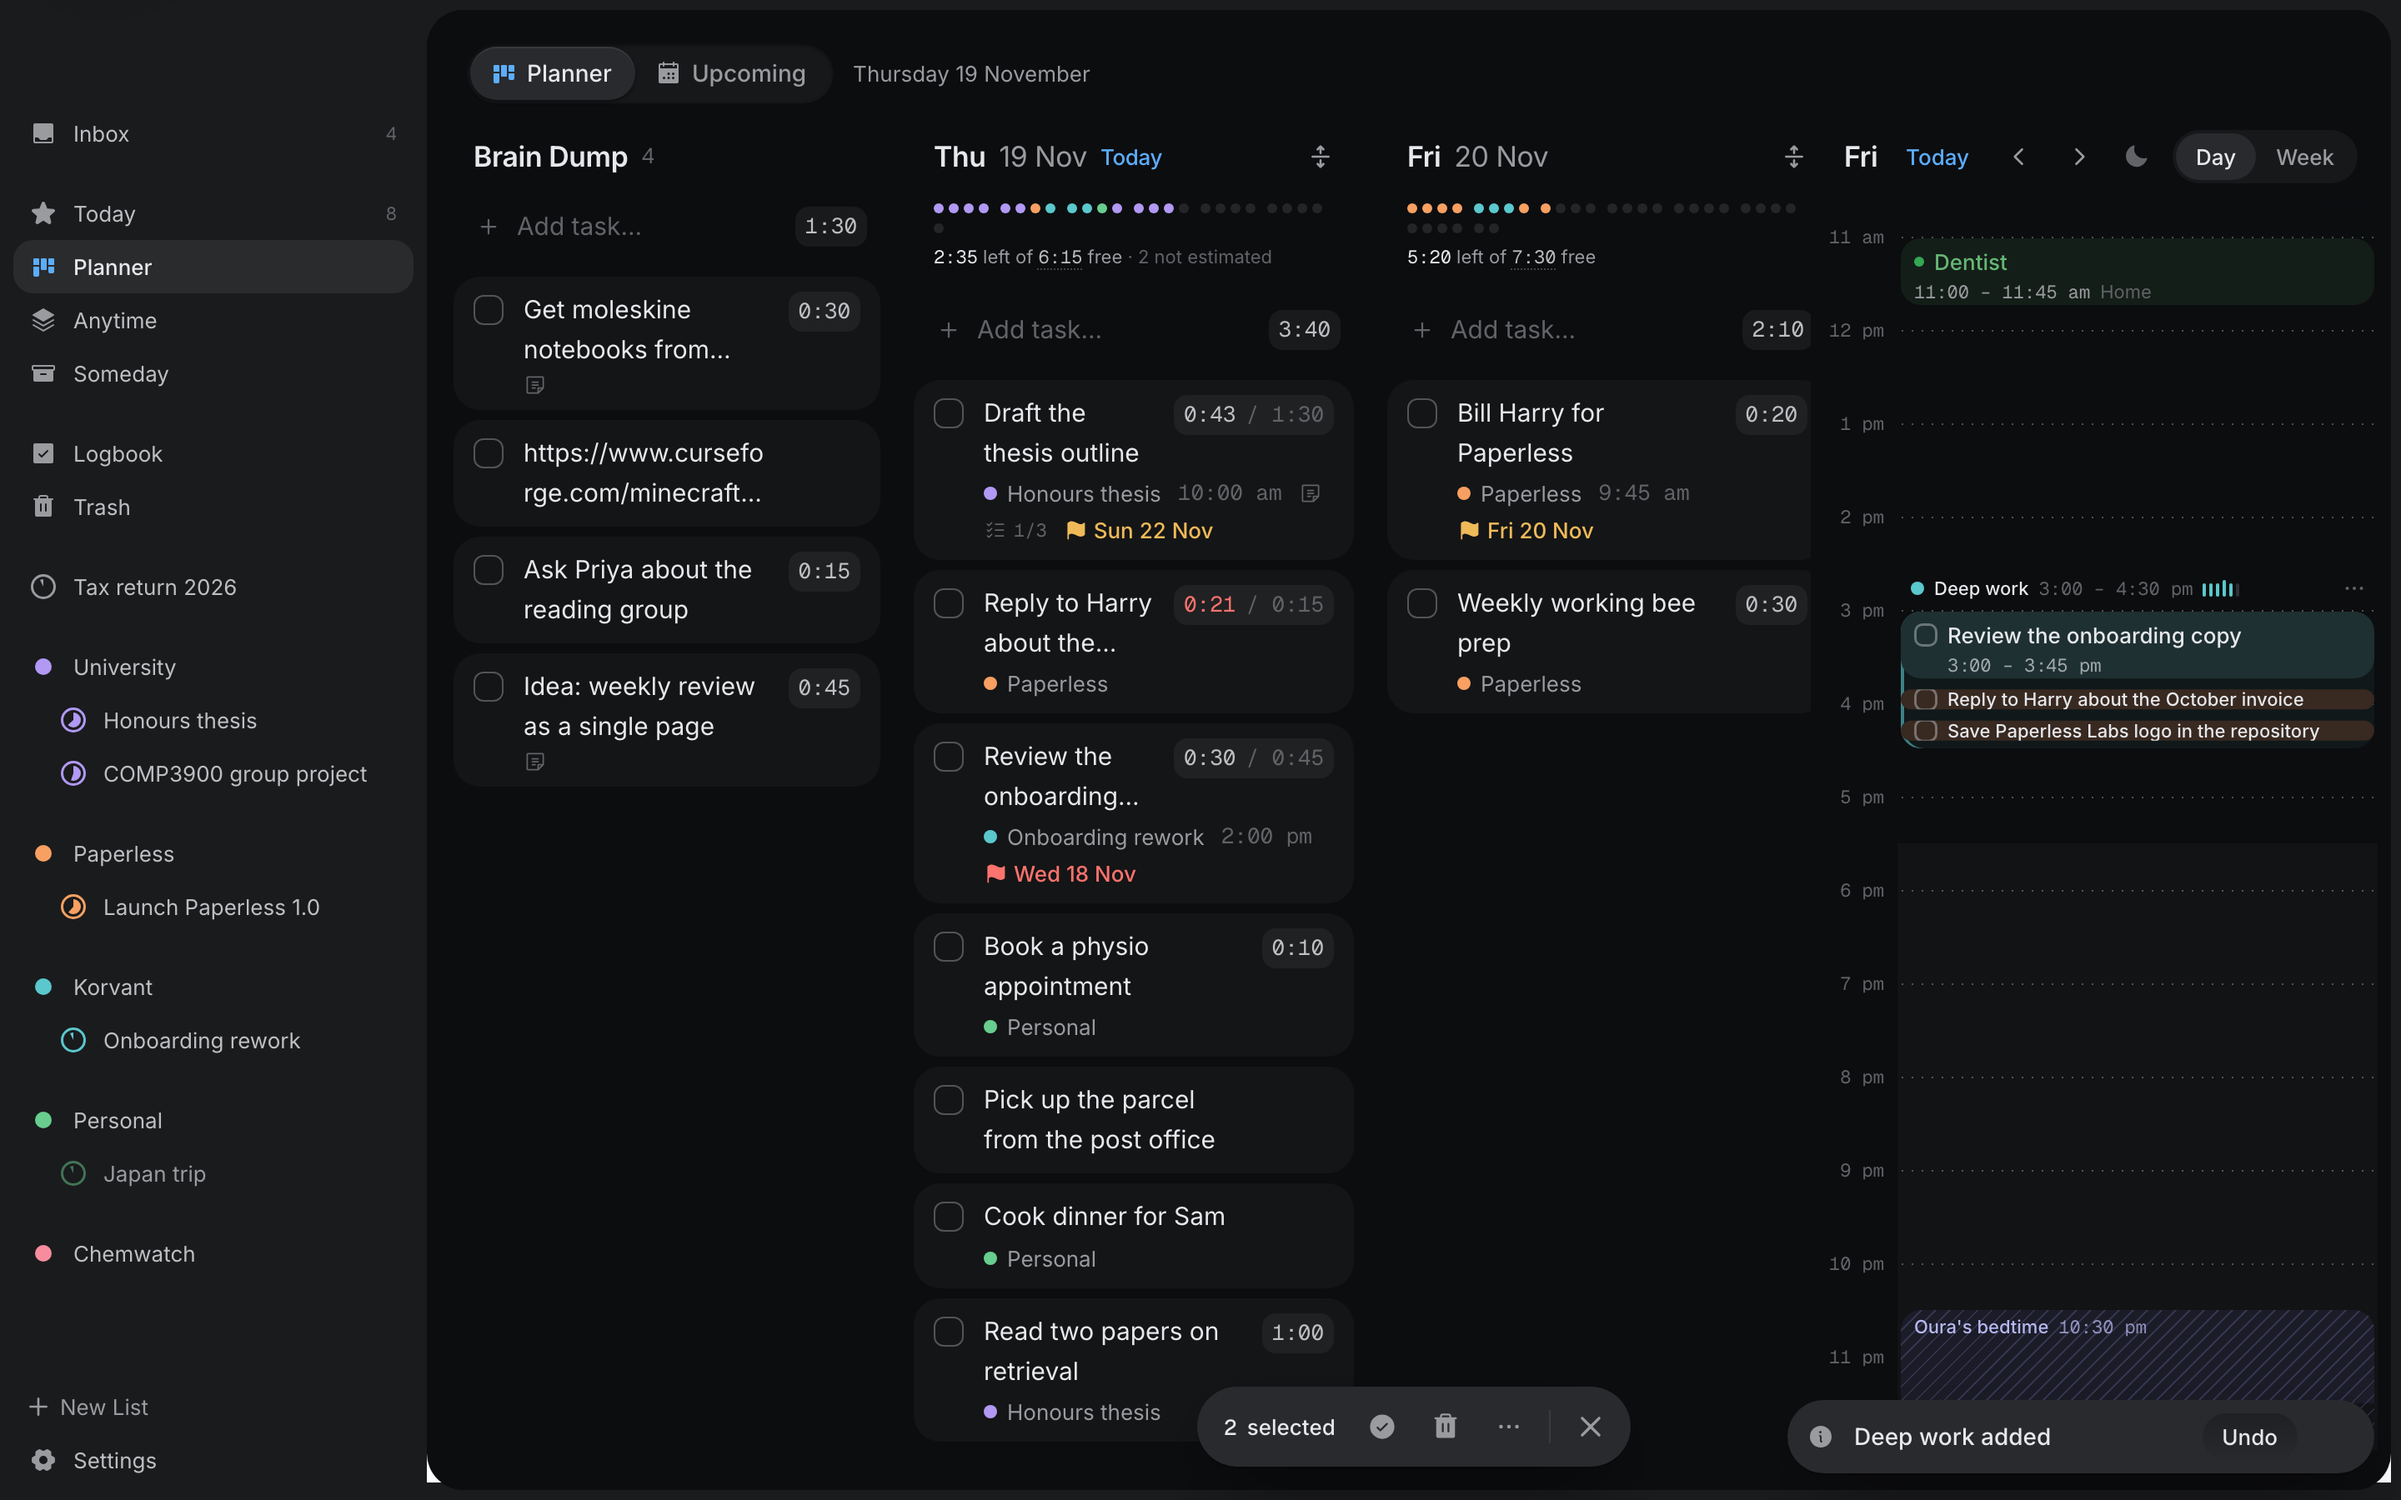
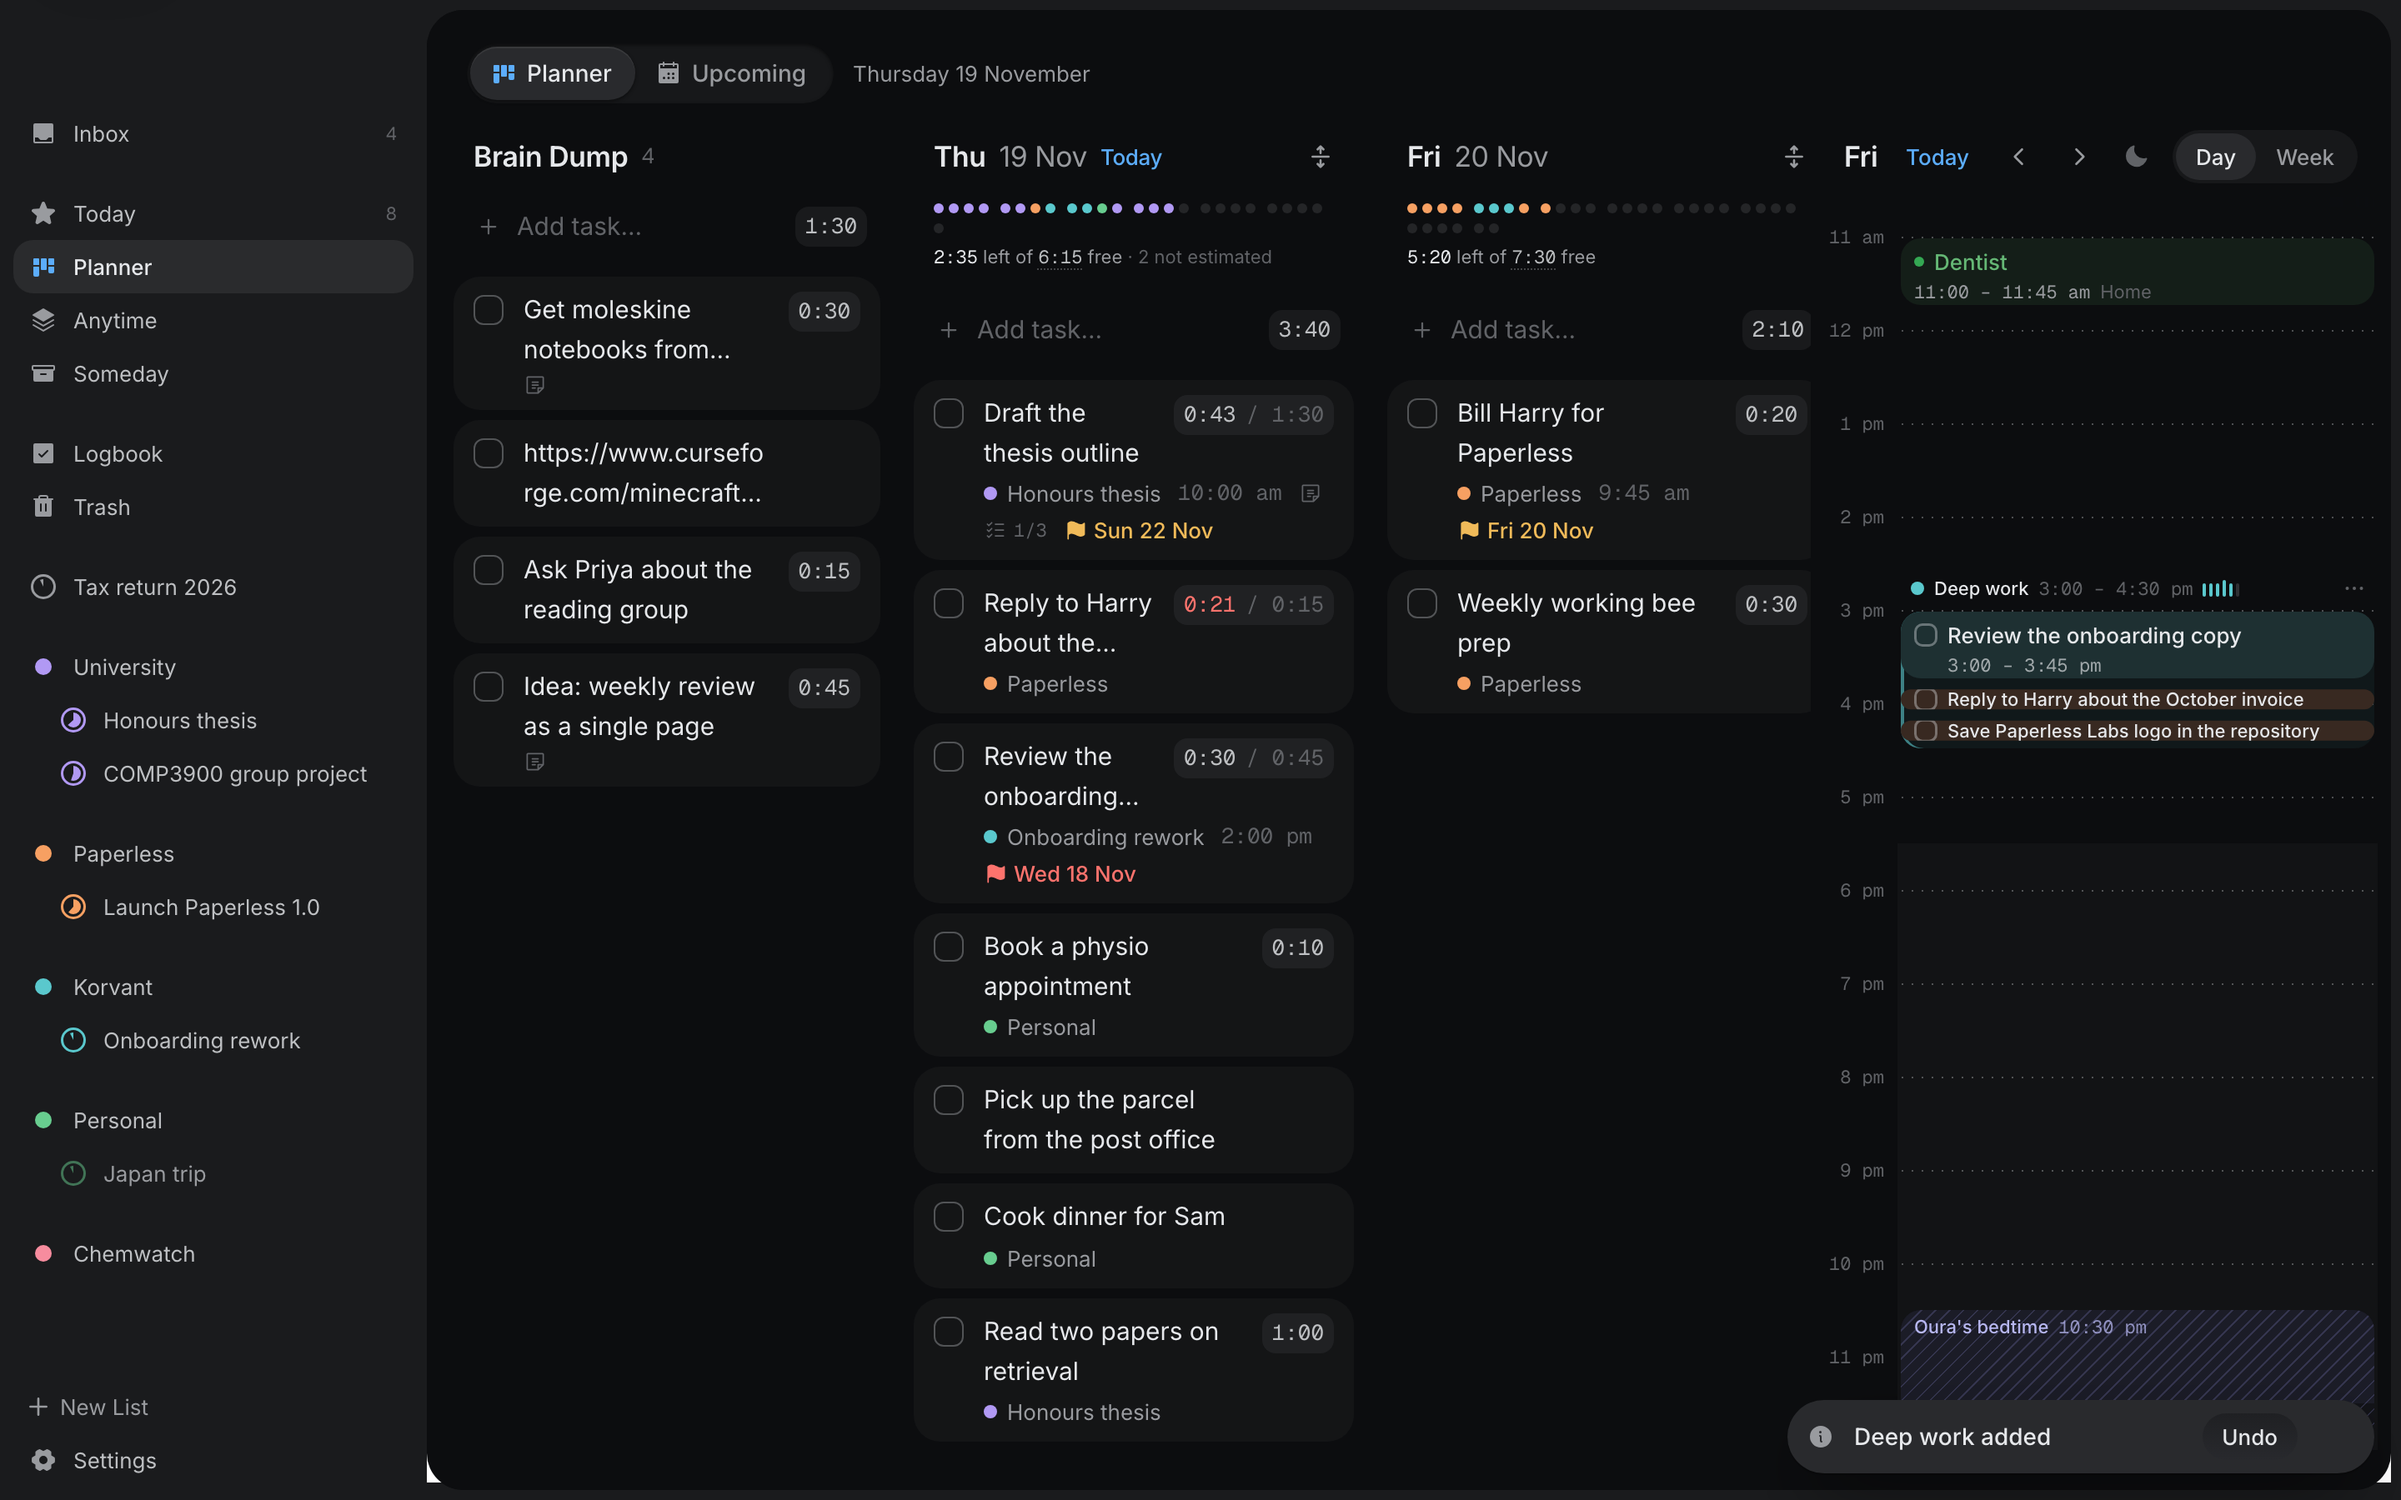
Drawing a Smart Block no longer starts the Task lasso; fresh screenshots after the rebase (#59)

Changed region(s): [[0.5, 0.9022, 0.6875, 0.9956]]

diff --git a/apps/web/src/components/app/planner/smart-blocks.tsx b/apps/web/src/components/app/planner/smart-blocks.tsx
@@ -428,7 +428,7 @@ export const SmartZones = ({
     ] satisfies MenuGroup[];
 
   return (
-    <div data-zone-layer="" className="pointer-events-none absolute inset-0">
+    <div data-zone-layer="" data-no-select="" className="pointer-events-none absolute inset-0">
       {shown.map((occurrence) => {
         const day = dates.indexOf(occurrence.date as IsoDate);
         const minutes = occurrence.endMinute - occurrence.startMinute;
@@ -626,6 +626,7 @@ export const SmartBlockBar = ({
     <div
       role="region"
       aria-label="Smart Block"
+      data-no-select=""
       className="absolute inset-x-2 bottom-2 z-40 flex max-h-[min(30rem,60%)] animate-fade-in flex-col overflow-hidden rounded-xl bg-popover px-3 pt-2.5 pb-2 shadow-float"
     >
       <div className="flex items-center gap-2">

diff --git a/apps/web/src/components/lifeos/timebox.tsx b/apps/web/src/components/lifeos/timebox.tsx
@@ -470,6 +470,7 @@ export const Timebox = ({
                 onPointerMove={onDraw ? drawTo : undefined}
                 onPointerUp={onDraw ? drawEnd : undefined}
                 onPointerCancel={onDraw ? drawEnd : undefined}
+                data-no-select={onDraw ? "" : undefined}
                 className={cn("relative", onDraw && "cursor-crosshair", index > 0 && "shadow-[inset_1px_0_0_color-mix(in_oklab,var(--foreground)_6%,transparent)]")}
               >
                 {dayLayers?.[index]}

diff --git a/apps/web/scripts/check-smart-blocks.py b/apps/web/scripts/check-smart-blocks.py
@@ -89,6 +89,7 @@ def main():
         ghosts = page.locator("[data-spread-preview]").count()
         expect("drawing a window previews its fill as ghost blocks", ghosts > 0, True)
         expect("nothing is written before Enter", page.locator("[data-block-id]").count(), blocks_before)
+        expect("drawing selects no Tasks", page.get_by_text(re.compile("^[0-9]+ selected$")).count(), 0)
         proposed = bar.get_by_role("list", name="Proposed Tasks").locator("li")
         first = bar.get_by_role("button", name=re.compile("^Leave out ")).first.get_attribute("aria-label")[len("Leave out ") :]
         print(f"info  {proposed.count()} proposed, first is {first!r}")
